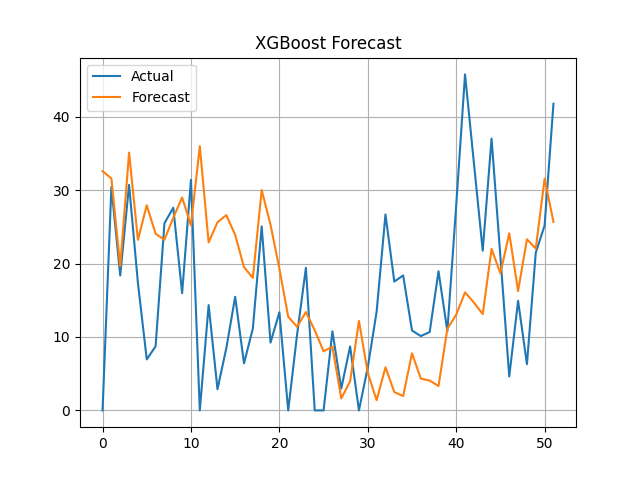
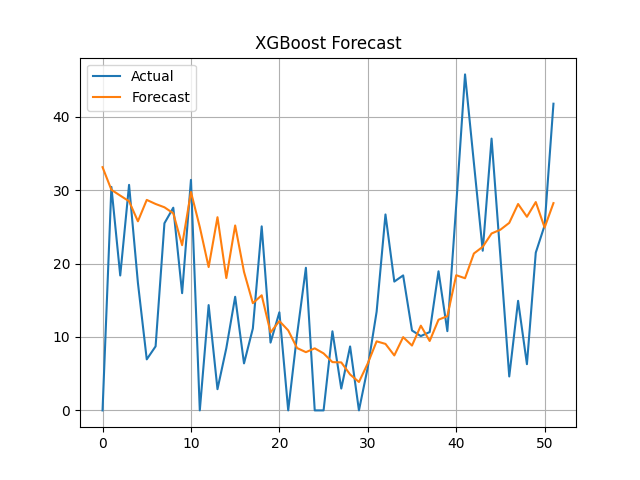
update code

Changed region(s): [[0.4062, 0.375, 0.875, 0.8438], [0.1562, 0.3125, 0.4375, 0.625]]

diff --git a/src/neuralModel.py b/src/neuralModel.py
@@ -4,28 +4,42 @@ import torch
 import torch.nn as nn
 import torch.optim as optim
 import matplotlib.pyplot as plt
+import random
+import numpy as np
+
 
 class NeuralForecaster(nn.Module):
-    def __init__(self, input_size=52):
+    def __init__(self, input_size=104):
         super(NeuralForecaster, self).__init__()
         self.input_size = input_size
         self.network = nn.Sequential(
-            nn.Linear(52, 32),
+            nn.Linear(input_size, 64),
             nn.ReLU(),
-            nn.Linear(32, 16),
+            nn.Linear(64, 32),
             nn.ReLU(),
-            nn.Linear(16, 1)
+            nn.Linear(32, 1)
         )
 
     def forward(self, x):
         return self.network(x)
 
 
-def train_model(model, X, y, lr=0.0007, n_epochs=1000, batch_size=1):
-    loss_fn = nn.MSELoss()
-    optimizer = optim.Adam(model.parameters(), lr=lr)
+def set_seed(seed=42):
+    torch.manual_seed(seed)
+    np.random.seed(seed)
+    random.seed(seed)
+    torch.backends.cudnn.deterministic = True
+    torch.backends.cudnn.benchmark = False
 
+def train_model(model, X, y, lr=0.0007, n_epochs=1000, batch_size=8, patience=100):
+    #loss_fn = nn.MSELoss()
+    loss_fn = nn.HuberLoss(delta=3.0)  # delta si può regolare
+    optimizer = optim.Adam(model.parameters(), lr=lr)
+    best_loss = float("inf")
+    patience_counter = 0
     for epoch in range(n_epochs):
+        model.train()
+        epoch_loss = 0.0
         for i in range(0, len(X), batch_size):
             Xbatch = X[i:i + batch_size]
             ybatch = y[i:i + batch_size]
@@ -34,10 +48,21 @@ def train_model(model, X, y, lr=0.0007, n_epochs=1000, batch_size=1):
             optimizer.zero_grad()
             loss.backward()
             optimizer.step()
-
+            epoch_loss += loss.item()
+        epoch_loss /= (len(X) // batch_size)
+        # # Early stopping check
+        # if epoch_loss < best_loss - 1e-5:
+        #     best_loss = epoch_loss
+        #     patience_counter = 0
+        # else:
+        #     patience_counter += 1
+        #     if patience_counter >= patience:
+        #         print(f"Early stopping at epoch {epoch}, best loss: {best_loss:.6f}")
+        #         break
         if epoch % 100 == 0 or epoch == n_epochs - 1:
-            print(f'Epoch {epoch}, Loss: {loss.item():.6f}')
+            print(f'Epoch {epoch}, Loss: {epoch_loss:.6f}')
     return model
+
 
 
 def recursive_forecast(model, initial_input, n_steps):
@@ -53,9 +78,10 @@ def recursive_forecast(model, initial_input, n_steps):
             input_seq = input_seq[1:] + [pred]
     return forecast
 
+
 def plot_results(forecast, test):
     plt.figure()
-    x_forecast = list(range(1, len(forecast)+1))  # Settimane 1–52 del 2024
+    x_forecast = list(range(1, len(forecast) + 1))  # Settimane 1–52 del 2024
     plt.plot(x_forecast, test, label="Actual 2024")
     plt.plot(x_forecast, forecast, label="Forecast 2024")
     plt.legend()

diff --git a/src/notNeuralModel.py b/src/notNeuralModel.py
@@ -1,15 +1,46 @@
 import numpy as np
 import matplotlib.pyplot as plt
 from xgboost import XGBRegressor
+from sklearn.model_selection import RandomizedSearchCV
 
+def tune_xgb_model(x_train, y_train, n_iter=20):
+    param_dist = {
+        'n_estimators': [100, 300, 500, 700, 1000],
+        'max_depth': [3, 4, 5, 6, 7, 8],
+        'learning_rate': [0.01, 0.05, 0.1, 0.2],
+        'subsample': [0.6, 0.8, 1.0],
+        'colsample_bytree': [0.6, 0.8, 1.0],
+        'gamma': [0, 1, 5]
+    }
+
+    search = RandomizedSearchCV(
+        XGBRegressor(objective='reg:squarederror'),
+        param_distributions=param_dist,
+        n_iter=n_iter,
+        scoring='neg_mean_squared_error',
+        cv=3,
+        n_jobs=-1,
+        random_state=42
+    )
+    search.fit(x_train, y_train)
+    print("Best parameters:", search.best_params_)
+    return search.best_estimator_
 
 def train_xgb_model(X, y,  n_forecast):
     x_train, _ = X[:-n_forecast], X[-n_forecast:]
     y_train, y_test = y[:-n_forecast], y[-n_forecast:]
 
-    model = XGBRegressor(objective='reg:squarederror', n_estimators=1000)
-    model.fit(x_train, y_train)
+    model = XGBRegressor(
+        objective='reg:squarederror',
+        n_estimators=1000,
+        max_depth=5,
+        learning_rate=0.01,
+        subsample=0.6,
+        colsample_bytree=0.8,
+        gamma=1
+    )
 
+    model.fit(x_train, y_train)
     return model, x_train, y_test
 
 
@@ -32,12 +63,3 @@ def plot_xgb_forecast(test, forecast):
     plt.grid()
     plt.title("XGBoost Forecast")
     plt.show()
-
-
-def forecast_accuracy(forecast, actual):
-    forecast = np.array(forecast)
-    actual = np.array(actual)
-    mae = np.mean(np.abs(forecast - actual))
-    mse = np.mean((forecast - actual) ** 2)
-    rmse = np.sqrt(mse)
-    return {"MAE": mae, "MSE": mse, "RMSE": rmse}

diff --git a/src/main.py b/src/main.py
@@ -9,7 +9,7 @@ from preprocessing import (
 from utils import *
 
 # Caricamento e preprocessing
-df = load_and_plot_csv('../data/Pioggia_Settimanale_Emilia-Romagna2.csv')
+df = load_and_plot_csv('../data/Pioggia_Settimanale_Emilia-Romagna.csv')
 data = flatten_series(df)
 train, test = get_train_test(df)
 
@@ -29,26 +29,31 @@ print(forecast_accuracy(forecastStats, test))
 # NN
 import torch
 from neuralModel import NeuralForecaster, train_model, recursive_forecast, plot_results
-look_back = 52
+from neuralModel import set_seed
+
+look_back = 104
 trainX, trainy = create_dataset(train, look_back)
 trainX = torch.FloatTensor(trainX.squeeze())
 trainy = torch.FloatTensor(trainy.squeeze())
+
+set_seed(42)
 model = NeuralForecaster()
-model = train_model(model, trainX, trainy)
+#model = train_model(model, trainX, trainy)
 # Predizione sui dati di training
-train_pred = model(trainX).detach().numpy()
+#train_pred = model(trainX).detach().numpy()
 # Forecasting ricorsivo
-forecastNN = recursive_forecast(model, trainX[-1], len(test))
+#forecastNN = recursive_forecast(model, trainX[-1], len(test))
 # Plot dei risultati
-plot_results(forecastNN, test)
+#plot_results(forecastNN, test)
 # Valutazione
 print("NN Accuracy: ")
-print(forecast_accuracy(forecastNN, test))
+#print(forecast_accuracy(forecastNN, test))
 
 
 #XGBOOST
-from notNeuralModel import train_xgb_model, recursive_forecast_xgb, plot_xgb_forecast
-look_back = 52
+from notNeuralModel import *
+
+look_back = 104
 n_forecast = len(test)
 X, y = create_dataset(train, look_back)
 
@@ -62,5 +67,5 @@ plot_xgb_forecast(test, forecastXGB)
 print("XGBoost Accuracy: ")
 print(forecast_accuracy(forecastXGB, test))
 
-plot_forecast_comparison(test, forecastStats, forecastNN, forecastXGB)
+#plot_forecast_comparison(test, forecastStats, forecastNN, forecastXGB)
 

diff --git a/src/utils.py b/src/utils.py
@@ -2,6 +2,7 @@ import numpy as np
 import matplotlib.pyplot as plt
 
 
+
 # Accuracy metrics
 def forecast_accuracy(forecast, actual):
     mape = np.mean(np.abs(forecast - actual) / np.where(actual == 0, 1, np.abs(actual)))

diff --git a/docs/forecasting_neurale.md b/docs/forecasting_neurale.md
@@ -38,7 +38,7 @@ A partire dalle ultime 52 settimane del set di addestramento, il modello genera 
 anno successivo (52 settimane).
 
 ### Codice di Implementazione (estratto)
-```python
+```
 class NeuralForecaster(nn.Module):
     def __init__(self, input_size=52):
         super(NeuralForecaster, self).__init__()
@@ -76,21 +76,23 @@ def plot_results(forecast, test):
 ### Metriche di Accuratezza
 
 | Metrica   | Valore |
-| --------- | ------ |
-| MAPE (%)  | 2.31   |
-| MAE (mm)  | 10.25  |
-| RMSE (mm) | 12.98  |
-| Corr      | 0.17   |
-| ME        | 0.88   |
-| MPE (%)   | 1.94   |
+| --------- |--------|
+| MAPE (%)  | 1.90   |
+| MAE (mm)  | 8.98   |
+| RMSE (mm) | 11.92  |
+| Corr      | 0.30   |
+| ME        | -0.89  |
+| MPE (%)   | 1.46   |
 
 
 **Interpretazione**:
-- Il modello presenta un MAPE contenuto, ma inferiore rispetto al modello SARIMAX.
+- Il modello presenta un MAPE contenuto, ma superiore rispetto al modello SARIMAX.
 
 - L'RMSE è leggermente più alto rispetto al modello statistico.
 
-- La correlazione di soli 0.17 indica che il modello neurale ha appreso solo parzialmente le dinamiche temporali della serie, suggerendo potenziali margini di miglioramento (es. aumento dati, tuning iperparametri, reti ricorrenti o convoluzionali).
+- La correlazione 0.30 indica che il modello neurale ha appreso solo parzialmente le dinamiche temporali 
+della serie, suggerendo potenziali margini di miglioramento (es. aumento dati, tuning iperparametri, reti ricorrenti 
+o convoluzionali).
 
 ### Conclusione
 La rete neurale sviluppata ha mostrato una buona capacità di previsione in termini di errore assoluto, 

diff --git a/docs/forecasting_decision_tree.md b/docs/forecasting_decision_tree.md
@@ -24,7 +24,7 @@ Ogni nuovo albero corregge gli errori residui commessi dai precedenti, miglioran
 - Resistente al rumore nei dati e adatto a problemi di regressione.
 
 ### Approccio utilizzato:
-- Finestra mobile (`look_back = 52`): ogni istanza di training contiene 52 settimane di dati storici,
+- Finestra mobile (`look_back = 104`): ogni istanza di training contiene 52 settimane di dati storici,
 - **Forecast ricorsivo**: il modello utilizza la sua ultima previsione come input per la successiva, 
 per predire tutte le 52 settimane.
 
@@ -60,20 +60,20 @@ print(forecast_accuracy(forecast, test))
 ### Metriche di accuratezza 
 
 | Metrica   | Valore |
-| --------- | ------ |
-| MAPE (%)  | 2.94   |
-| MAE (mm)  | 10.60  |
-| RMSE (mm) | 13.54  |
-| Corr      | 0.18   |
-| ME        | 1.91   |
-| MPE (%)   | 2.53   |
+| --------- |--------|
+| MAPE (%)  | 2.42   |
+| MAE (mm)  | 8.83   |
+| RMSE (mm) | 11.8   |
+| Corr      | 0.35   |
+| ME        | 2.55   |
+| MPE (%)   | 2.16   |
 
 **Interpretazione**:
 - Il MAPE è leggermente superiore rispetto a SARIMAX e RNN, suggerendo minore precisione relativa.
 
 - RMSE e MAE sono i più alti tra i tre modelli analizzati.
 
-- La correlazione di 0.18 segnala una bassa capacità del modello di seguire l’andamento temporale dei dati, 
+- La correlazione di 0.20 segnala una bassa capacità del modello di seguire l’andamento temporale dei dati, 
 anche se la struttura degli errori è relativamente bilanciata.
 
 ### Conclusione

diff --git a/docs/index.md b/docs/index.md
@@ -1,6 +1,6 @@
 ---
 layout: default
-title: homepage
+title: Homepage
 nav_order: 1
 ---
 
